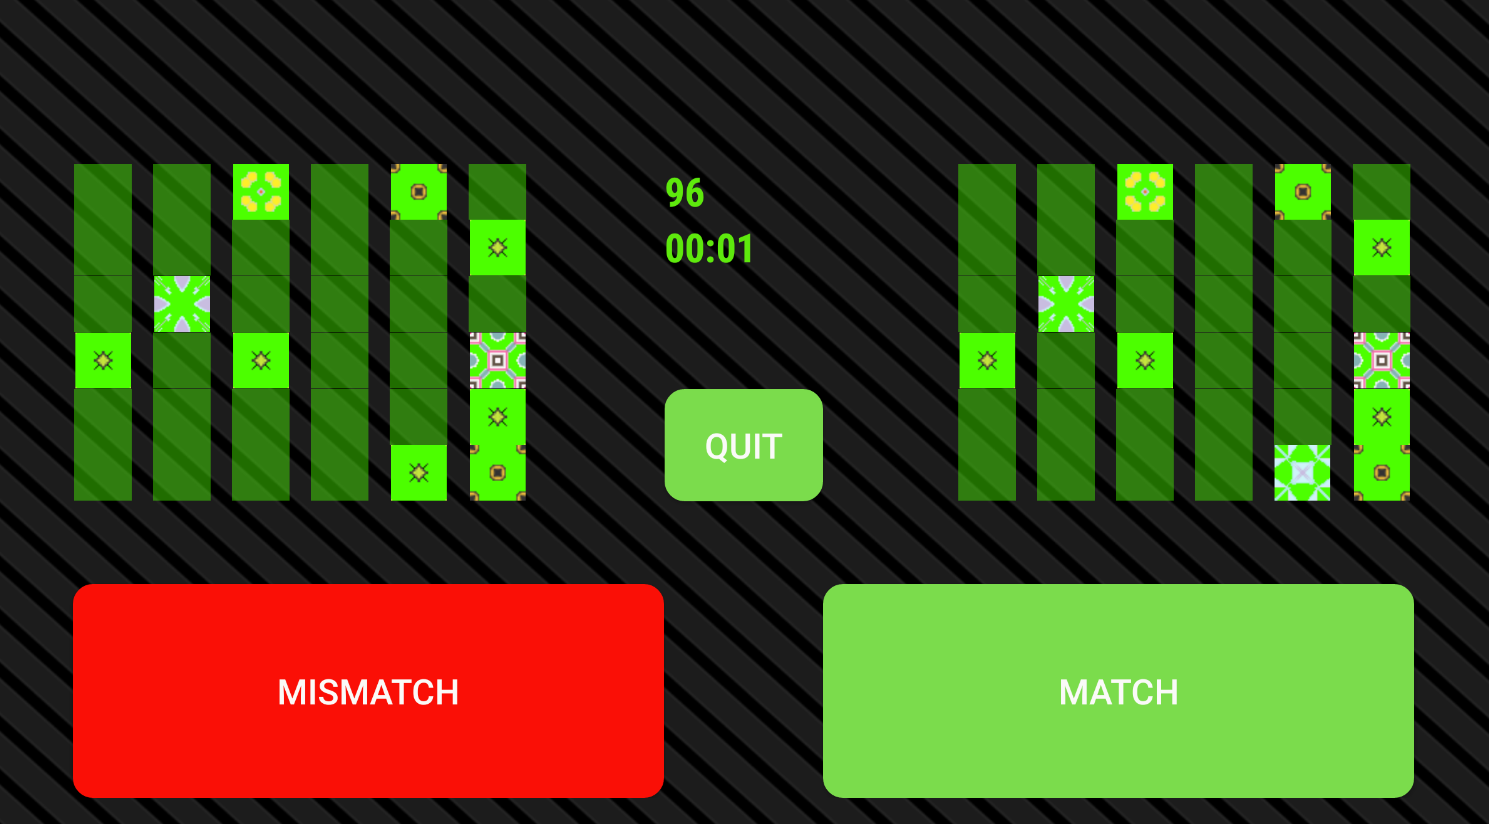
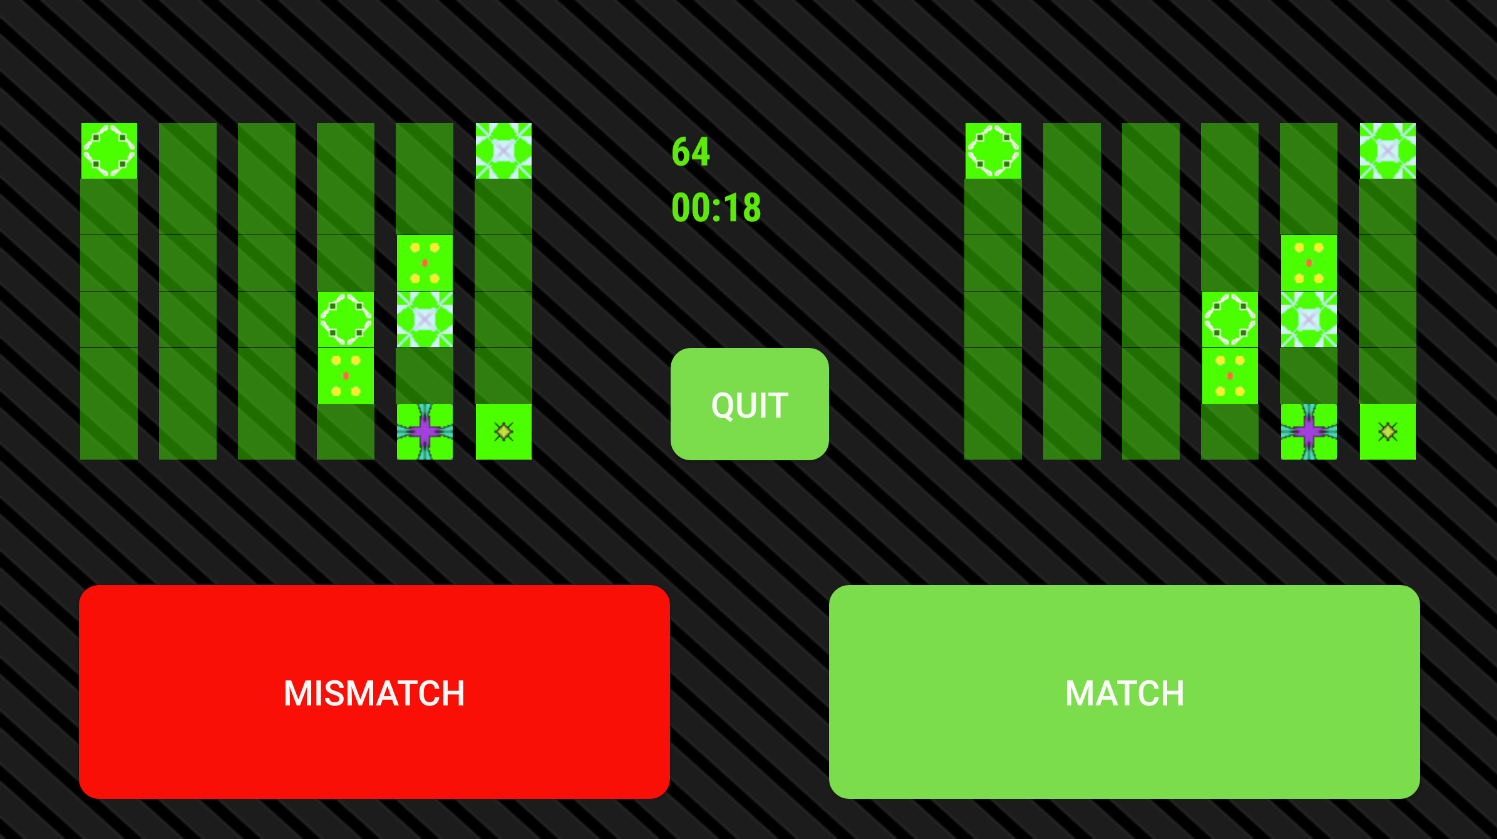
More tweaking of the elements on the screen. Sample graph screenshot added

diff --git a/app/src/main/java/com/shapematchandroid/util/DisplayWindow.java b/app/src/main/java/com/shapematchandroid/util/DisplayWindow.java
@@ -2,7 +2,7 @@ package com.shapematchandroid.util;
 
 public class DisplayWindow {
     public static final double LEFT_GUTTER_WIDTH_PERCENTAGE = 0.02;
-    public static final double LEFT_GUTTER_HEIGHT_PERCENTAGE = 0.15;
+    public static final double LEFT_GUTTER_HEIGHT_PERCENTAGE = 0.10;
 
     public static final double LEFT_BUTTON_WIDTH_PERCENTAGE = 0.026;
     public static final double LEFT_BUTTON_HEIGHT_PERCENTAGE = 0.65;
@@ -11,7 +11,7 @@ public class DisplayWindow {
     public static final double LEFT_GRID_HEIGHT_PERCENTAGE =0.15;
 
     public static final double RIGHT_GRID_WIDTH_PERCENTAGE = 0.61;
-    public static final double RIGHT_GRID_HEIGHT_PERCENTAGE =0.15;
+    public static final double RIGHT_GRID_HEIGHT_PERCENTAGE = LEFT_GUTTER_HEIGHT_PERCENTAGE;
 
     public static final double RIGHT_BUTTON_WIDTH_PERCENTAGE = 0.527;
     public static final double RIGHT_BUTTON_HEIGHT_PERCENTAGE = 0.65;

diff --git a/README.md b/README.md
@@ -1,3 +1,4 @@
 # shape-match-android
 
-[sample image!](./sampleImage.png) 
+[Screenshot of main game screen](./sampleImage.png) 
+[Score stat graph](./sampleGraph.png) 
